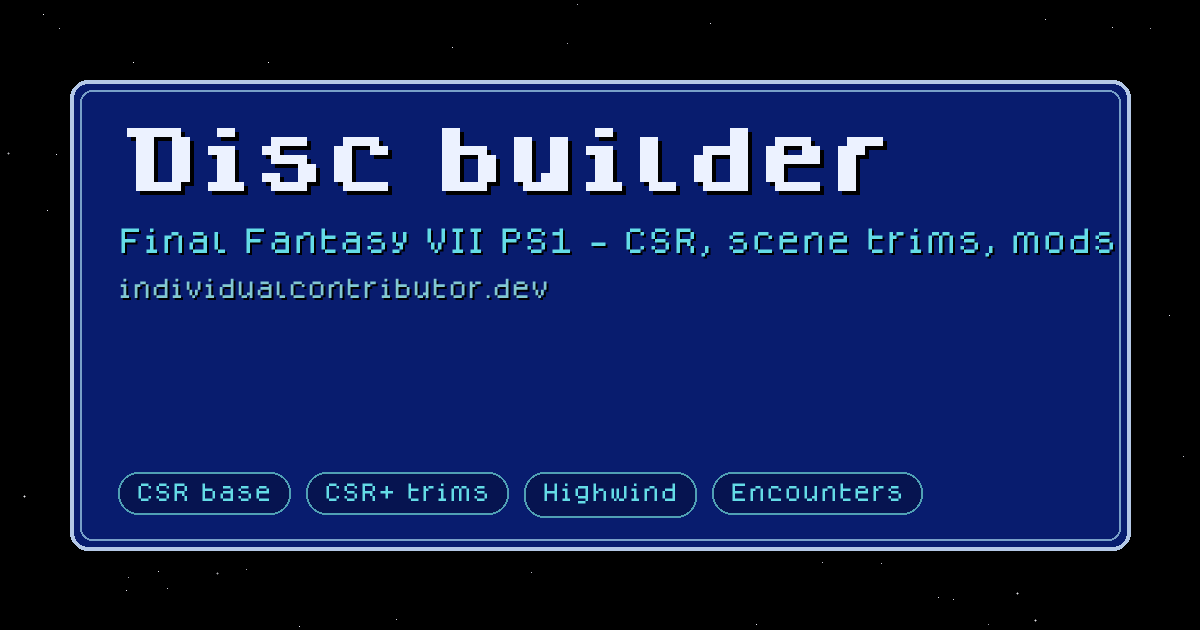
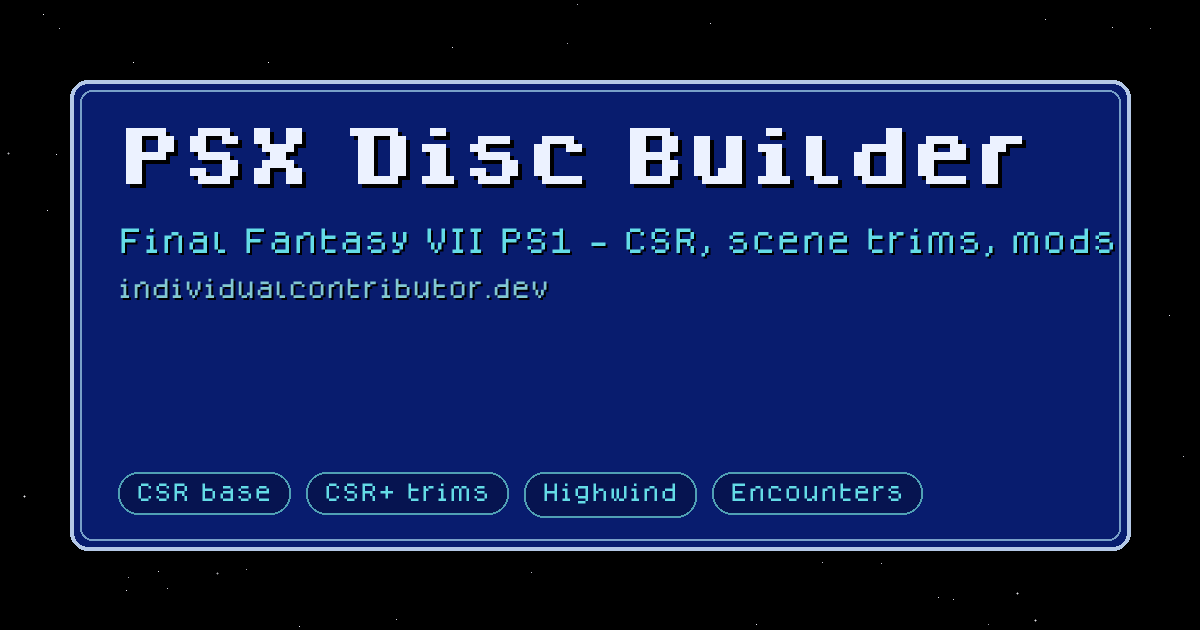
Rename product to PSX Disc Builder (keep /builder/ URL).

Changed region(s): [[0.0925, 0.181, 0.8633, 0.3317]]

diff --git a/index.html b/index.html
@@ -4,7 +4,7 @@
   <meta charset="UTF-8" />
   <meta name="viewport" content="width=device-width, initial-scale=1.0" />
   <title>IndividualContributor</title>
-  <meta name="description" content="Final Fantasy VII disc builder, CSR, and PS1 modding — IndividualContributor." />
+  <meta name="description" content="Final Fantasy VII PSX Disc Builder, CSR, and PS1 modding — IndividualContributor." />
   <link rel="stylesheet" href="https://cdnjs.cloudflare.com/ajax/libs/font-awesome/6.0.0-beta3/css/all.min.css" />
   <link rel="icon" href="/favicon.ico" type="image/x-icon" />
   <link rel="stylesheet" href="/site.css" />
@@ -12,14 +12,14 @@
   <meta property="og:site_name" content="IndividualContributor" />
   <meta property="og:url" content="https://individualcontributor.dev/" />
   <meta property="og:title" content="IndividualContributor" />
-  <meta property="og:description" content="Final Fantasy VII disc builder, CSR, and PS1 modding." />
+  <meta property="og:description" content="Final Fantasy VII PSX Disc Builder, CSR, and PS1 modding." />
   <meta property="og:image" content="https://individualcontributor.dev/og-builder.png" />
   <meta property="og:image:type" content="image/png" />
   <meta property="og:image:width" content="1200" />
   <meta property="og:image:height" content="630" />
   <meta name="twitter:card" content="summary_large_image" />
   <meta name="twitter:title" content="IndividualContributor" />
-  <meta name="twitter:description" content="Final Fantasy VII disc builder, CSR, and PS1 modding." />
+  <meta name="twitter:description" content="Final Fantasy VII PSX Disc Builder, CSR, and PS1 modding." />
   <meta name="twitter:image" content="https://individualcontributor.dev/og-builder.png" />
   <style>
     /* Homepage-only */
@@ -128,19 +128,19 @@
       <section class="hero">
         <h1 class="brand">IndividualContributor</h1>
         <p class="tagline">
-          Final Fantasy VII PS1 disc builder, cutscene-removed bases, and related tools.
+          Final Fantasy VII PSX Disc Builder, cutscene-removed bases, and related tools.
           Apply packs in the browser — downloads a zip with <code>.bin</code>, <code>.cue</code>,
           and <code>APPLIED.txt</code>. Nothing is uploaded.
         </p>
         <div class="cta-row">
-          <a class="cta" href="/builder/">Disc builder</a>
+          <a class="cta" href="/builder/">PSX Disc Builder</a>
         </div>
       </section>
 
       <h2 id="csr"><i class="fas fa-compact-disc"></i> CSR</h2>
       <div class="panel">
         <p>
-          CutScenes Removed for NTSC-U Final Fantasy VII (PS1). Apply packs with the disc builder.
+          CutScenes Removed for NTSC-U Final Fantasy VII (PS1). Apply packs with the PSX Disc Builder.
         </p>
         <ul class="variants">
           <li><strong>CSR</strong> — skill checks kept; FMVs and long sequences cut or shortened. A base.</li>
@@ -155,7 +155,7 @@
       <h2 id="modding"><i class="fas fa-flask"></i> Modding</h2>
       <div class="panel">
         <p>
-          Field encounter rate packs and PS1 engine notes. Published packs ship through the disc builder.
+          Field encounter rate packs and PS1 engine notes. Published packs ship through the PSX Disc Builder.
         </p>
         <div class="actions">
           <a href="https://github.com/individualcontributordev/Final-Fantasy-7-Modding" target="_blank" rel="noreferrer">Modding (GitHub)</a>

diff --git a/builder/index.html b/builder/index.html
@@ -3,22 +3,22 @@
 <head>
 	<meta charset="UTF-8" />
 	<meta name="viewport" content="width=device-width, initial-scale=1.0" />
-	<title>Disc builder — IndividualContributor</title>
+	<title>PSX Disc Builder — IndividualContributor</title>
 	<meta name="description" content="Apply CSR, optional CSR+ scene trims, and mods to your Final Fantasy VII NTSC-U .bin in the browser." />
 	<link rel="icon" href="/favicon.ico" type="image/x-icon" />
 	<link rel="stylesheet" href="./builder.css" />
 	<meta property="og:type" content="website" />
 	<meta property="og:site_name" content="IndividualContributor" />
 	<meta property="og:url" content="https://individualcontributor.dev/builder/" />
-	<meta property="og:title" content="Disc builder — IndividualContributor" />
+	<meta property="og:title" content="PSX Disc Builder — IndividualContributor" />
 	<meta property="og:description" content="Apply CSR, optional CSR+ scene trims, and mods to your Final Fantasy VII NTSC-U .bin in the browser." />
 	<meta property="og:image" content="https://individualcontributor.dev/og-builder.png" />
 	<meta property="og:image:type" content="image/png" />
 	<meta property="og:image:width" content="1200" />
 	<meta property="og:image:height" content="630" />
-	<meta property="og:image:alt" content="Disc builder — Final Fantasy VII PS1 CSR and mods" />
+	<meta property="og:image:alt" content="PSX Disc Builder — Final Fantasy VII PS1 CSR and mods" />
 	<meta name="twitter:card" content="summary_large_image" />
-	<meta name="twitter:title" content="Disc builder — IndividualContributor" />
+	<meta name="twitter:title" content="PSX Disc Builder — IndividualContributor" />
 	<meta name="twitter:description" content="Apply CSR, optional CSR+ scene trims, and mods to your Final Fantasy VII NTSC-U .bin in the browser." />
 	<meta name="twitter:image" content="https://individualcontributor.dev/og-builder.png" />
 </head>
@@ -46,7 +46,7 @@
 
 		<main>
 			<header class="hero">
-				<h1 id="page-title">Disc builder</h1>
+				<h1 id="page-title">PSX Disc Builder</h1>
 				<p class="lede">
 					Choose a clean NTSC-U <strong>.bin</strong> (disc is detected automatically).
 					Pick a base experience, optional CSR+ scene trims (on CSR), and optional mods.

diff --git a/history/index.html b/history/index.html
@@ -124,7 +124,7 @@
 <h2 id="credits">Credits</h2>
 <p>jayrod316, awesomewaves, themattdavis, doumeis, uzuki7777, asleepyjake, katombaz, individualcontributor, .okamikaze, dashretro, wedgiroth, kumatv, muttski, .rendall, thebroodles, chuky500, kitkatbars, mcswirls, phek1200, musclebelt, teeejj0102, petfriendamy, kleinestennis, dylwingo, primitivedeath, lemon6559, blake.is.blue, rjthedestroyer, acezephyr, .theretrojay, cornfed, snake1982, luzbel, zheal, bigspill, fr3akzilla, hopeproductions</p>
 <h2 id="related-links">Related links</h2>
-<ul><li>Disc builder: https://individualcontributor.dev/builder/</li><li>CSR repository: https://github.com/individualcontributordev/Final-Fantasy-7-CSR</li><li>Modding repository: https://github.com/individualcontributordev/Final-Fantasy-7-Modding</li><li>Suggestions backlogs: <code>docs/SUGGESTIONS.md</code> in the CSR and Modding repos</li></ul></section>
+<ul><li>PSX Disc Builder: https://individualcontributor.dev/builder/</li><li>CSR repository: https://github.com/individualcontributordev/Final-Fantasy-7-CSR</li><li>Modding repository: https://github.com/individualcontributordev/Final-Fantasy-7-Modding</li><li>Suggestions backlogs: <code>docs/SUGGESTIONS.md</code> in the CSR and Modding repos</li></ul></section>
       <section id="downloads" class="panel"><h2>Downloads</h2>
         <ul>
           <li><a href="HISTORY.md">HISTORY.md</a></li>

diff --git a/builder/builder.js b/builder/builder.js
@@ -1105,7 +1105,7 @@ function buildAppliedReport({ disc, base, baseId, addons, edcFixed }) {
 async function init() {
 	try {
 		manifest = await loadMergedManifest('./manifest.json');
-		document.getElementById('page-title').textContent = manifest.title || 'Disc builder';
+		document.getElementById('page-title').textContent = manifest.title || 'PSX Disc Builder';
 		renderManifest();
 
 		const expectedRemotes = (manifest.remoteSources || []).length;

diff --git a/history/HISTORY.md b/history/HISTORY.md
@@ -235,7 +235,7 @@ jayrod316, awesomewaves, themattdavis, doumeis, uzuki7777, asleepyjake, katombaz
 
 ## Related links
 
-- Disc builder: https://individualcontributor.dev/builder/
+- PSX Disc Builder: https://individualcontributor.dev/builder/
 - CSR repository: https://github.com/individualcontributordev/Final-Fantasy-7-CSR
 - Modding repository: https://github.com/individualcontributordev/Final-Fantasy-7-Modding
 - Suggestions backlogs: `docs/SUGGESTIONS.md` in the CSR and Modding repos

diff --git a/AGENTS.md b/AGENTS.md
@@ -5,7 +5,7 @@ Public site for the IndividualContributor FF7 PS1 stack.
 | Path | Role |
 |------|------|
 | `/` | Brand homepage — quiet copy; CSR/Modding → GitHub |
-| `/builder/` | Player tool — apply base + packs + mods in-browser |
+| `/builder/` | PSX Disc Builder — apply base + packs + mods in-browser |
 | `/history/` | CSR / Highwind / mods history + sanitized chat archives |
 
 Remote pack sources (Pages CDN):

diff --git a/.agents/skills/polish-site-chrome/SKILL.md b/.agents/skills/polish-site-chrome/SKILL.md
@@ -1,7 +1,7 @@
 ---
 name: polish-site-chrome
 description: >-
-  Keeps individualcontributor.dev homepage and disc builder visually consistent
+  Keeps individualcontributor.dev homepage and PSX Disc Builder visually consistent
   and copy-sparse. Use when editing index.html, builder CSS/HTML/JS, homepage
   CTAs, nav, or site branding on individualcontributordev.github.io.
 ---
